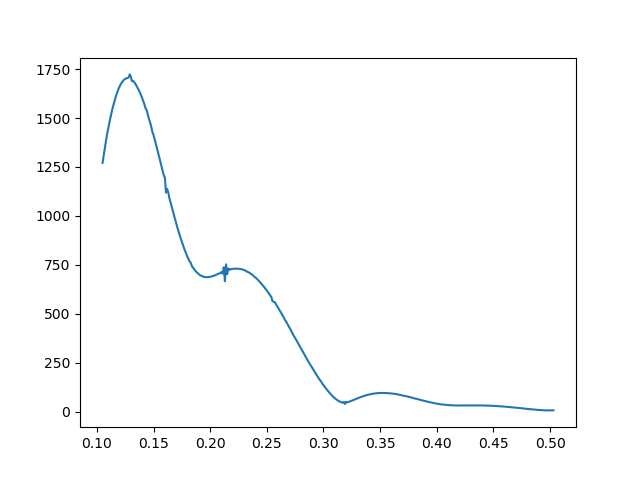
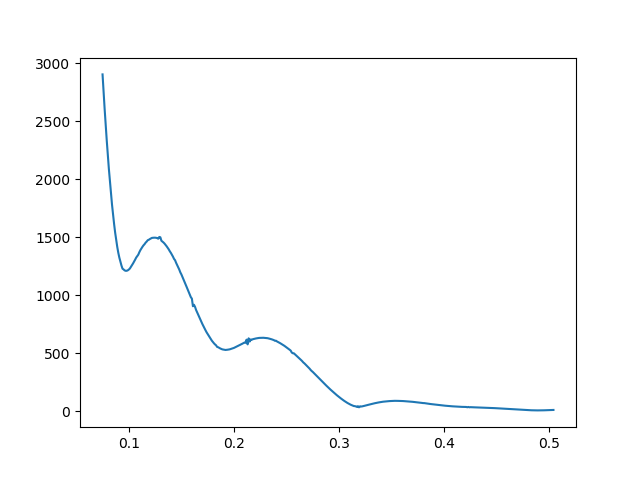
august 24 update

diff --git a/main.py b/main.py
@@ -40,20 +40,32 @@ print(len(F))
 
 F0 = F[0]
 
-from omega import Omat, Tmat, ad, s
+from omega import Omat, Tmat, ad, s, q
 print(len(Omat))
 print(len(Tmat))
 
 
 H0 = F0.dot(Tmat)
 K0 = F0.dot(Omat)
-
+print("H0 and K0:")
+print(H0.shape)
+print(K0.shape)
+print("")
 Ihom = np.zeros(len(H0)*len(H0[0])).reshape(len(H0),len(H0[0]))
 s = np.array(s)
 
+sqrpi = np.sqrt(np.pi)
+sqrpiby2 = sqrpi/2
+
 for i in range(len(H0)):
   for j in range(len(H0[0])):
-    Ihom[i][j] = np.abs((((np.sqrt(np.pi)/2)*H0[i][j]) + ((2*ad*np.sqrt(np.pi))*K0[i][j]))**2)
+    p1 = sqrpiby2*H0[i][j]
+    p2 = 2*ad*sqrpi
+    p2*=K0[i][j]
+    psum = p1+p2
+    Ihom[i][j] = np.power(psum,2)
+    # Ihom[i][j] = ((sqrpi*H0[i][j]) + ((2*ad*np.sqrt(np.pi))*K0[i][j]))**2
+    # Ihom[i][j] = (((np.sqrt(np.pi)/2)*H0[i][j]) + ((2*ad*np.sqrt(np.pi))*K0[i][j]))**2
 ihom = Ihom.dot(s)
 print("ihom shape should be Q")
 print(ihom.shape)
@@ -79,10 +91,17 @@ for i in range(500):
   qline.append(step)
   step+=0.001
 
-
-plt.plot(qline[100:-1],fhom[100:-1])
+plt.figure(0)
+plt.plot(qline[70:],fhom[70:])
 # plt.yscale('log')
+# plt.xscale('log')
 plt.savefig('fhom.png')
+
+plt.figure(1)
+plt.plot(qline,ihom)
+plt.yscale('log')
+plt.xscale('log')
+plt.savefig('ihom.png')
 
 # matrix multiplication step
 

diff --git a/omega.py b/omega.py
@@ -4,7 +4,9 @@ import pandas as pd
 rm = 500
 o = 0.25
 ps = 0.0636305
-ad = 0.4
+ad = 0.32
+# ad = 0.43?
+# ad = 0.32?
 
 # declaring vectors
 
